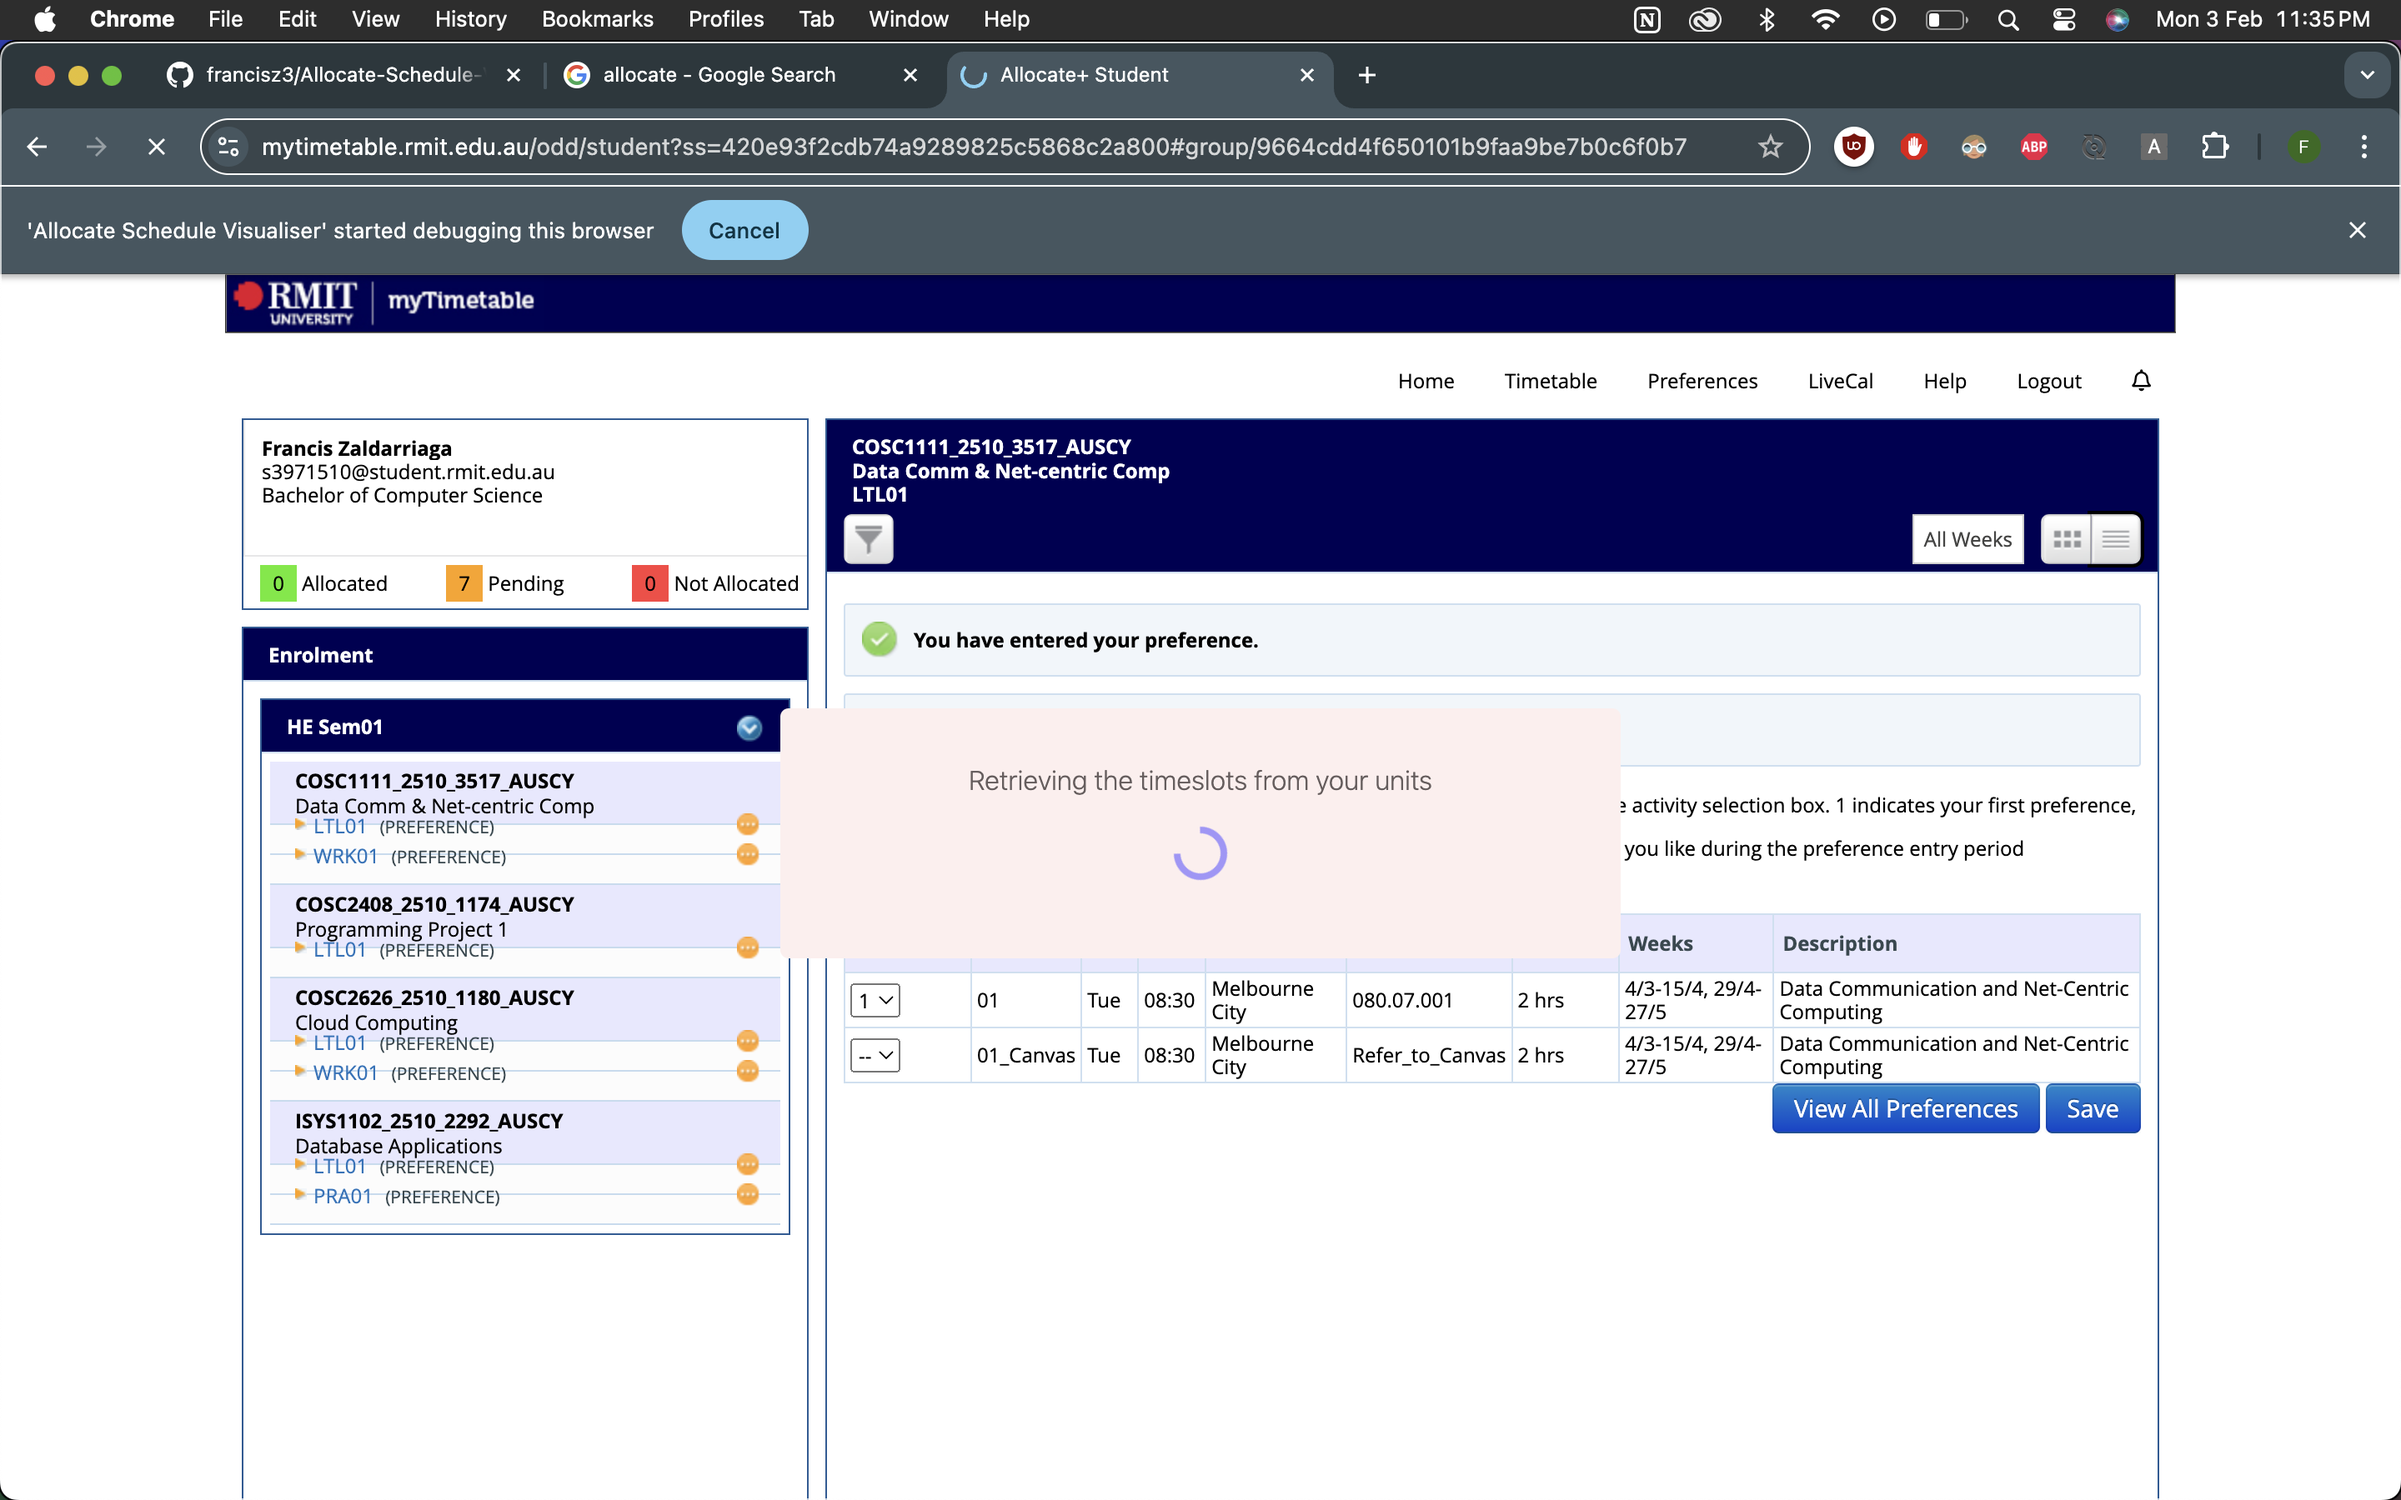
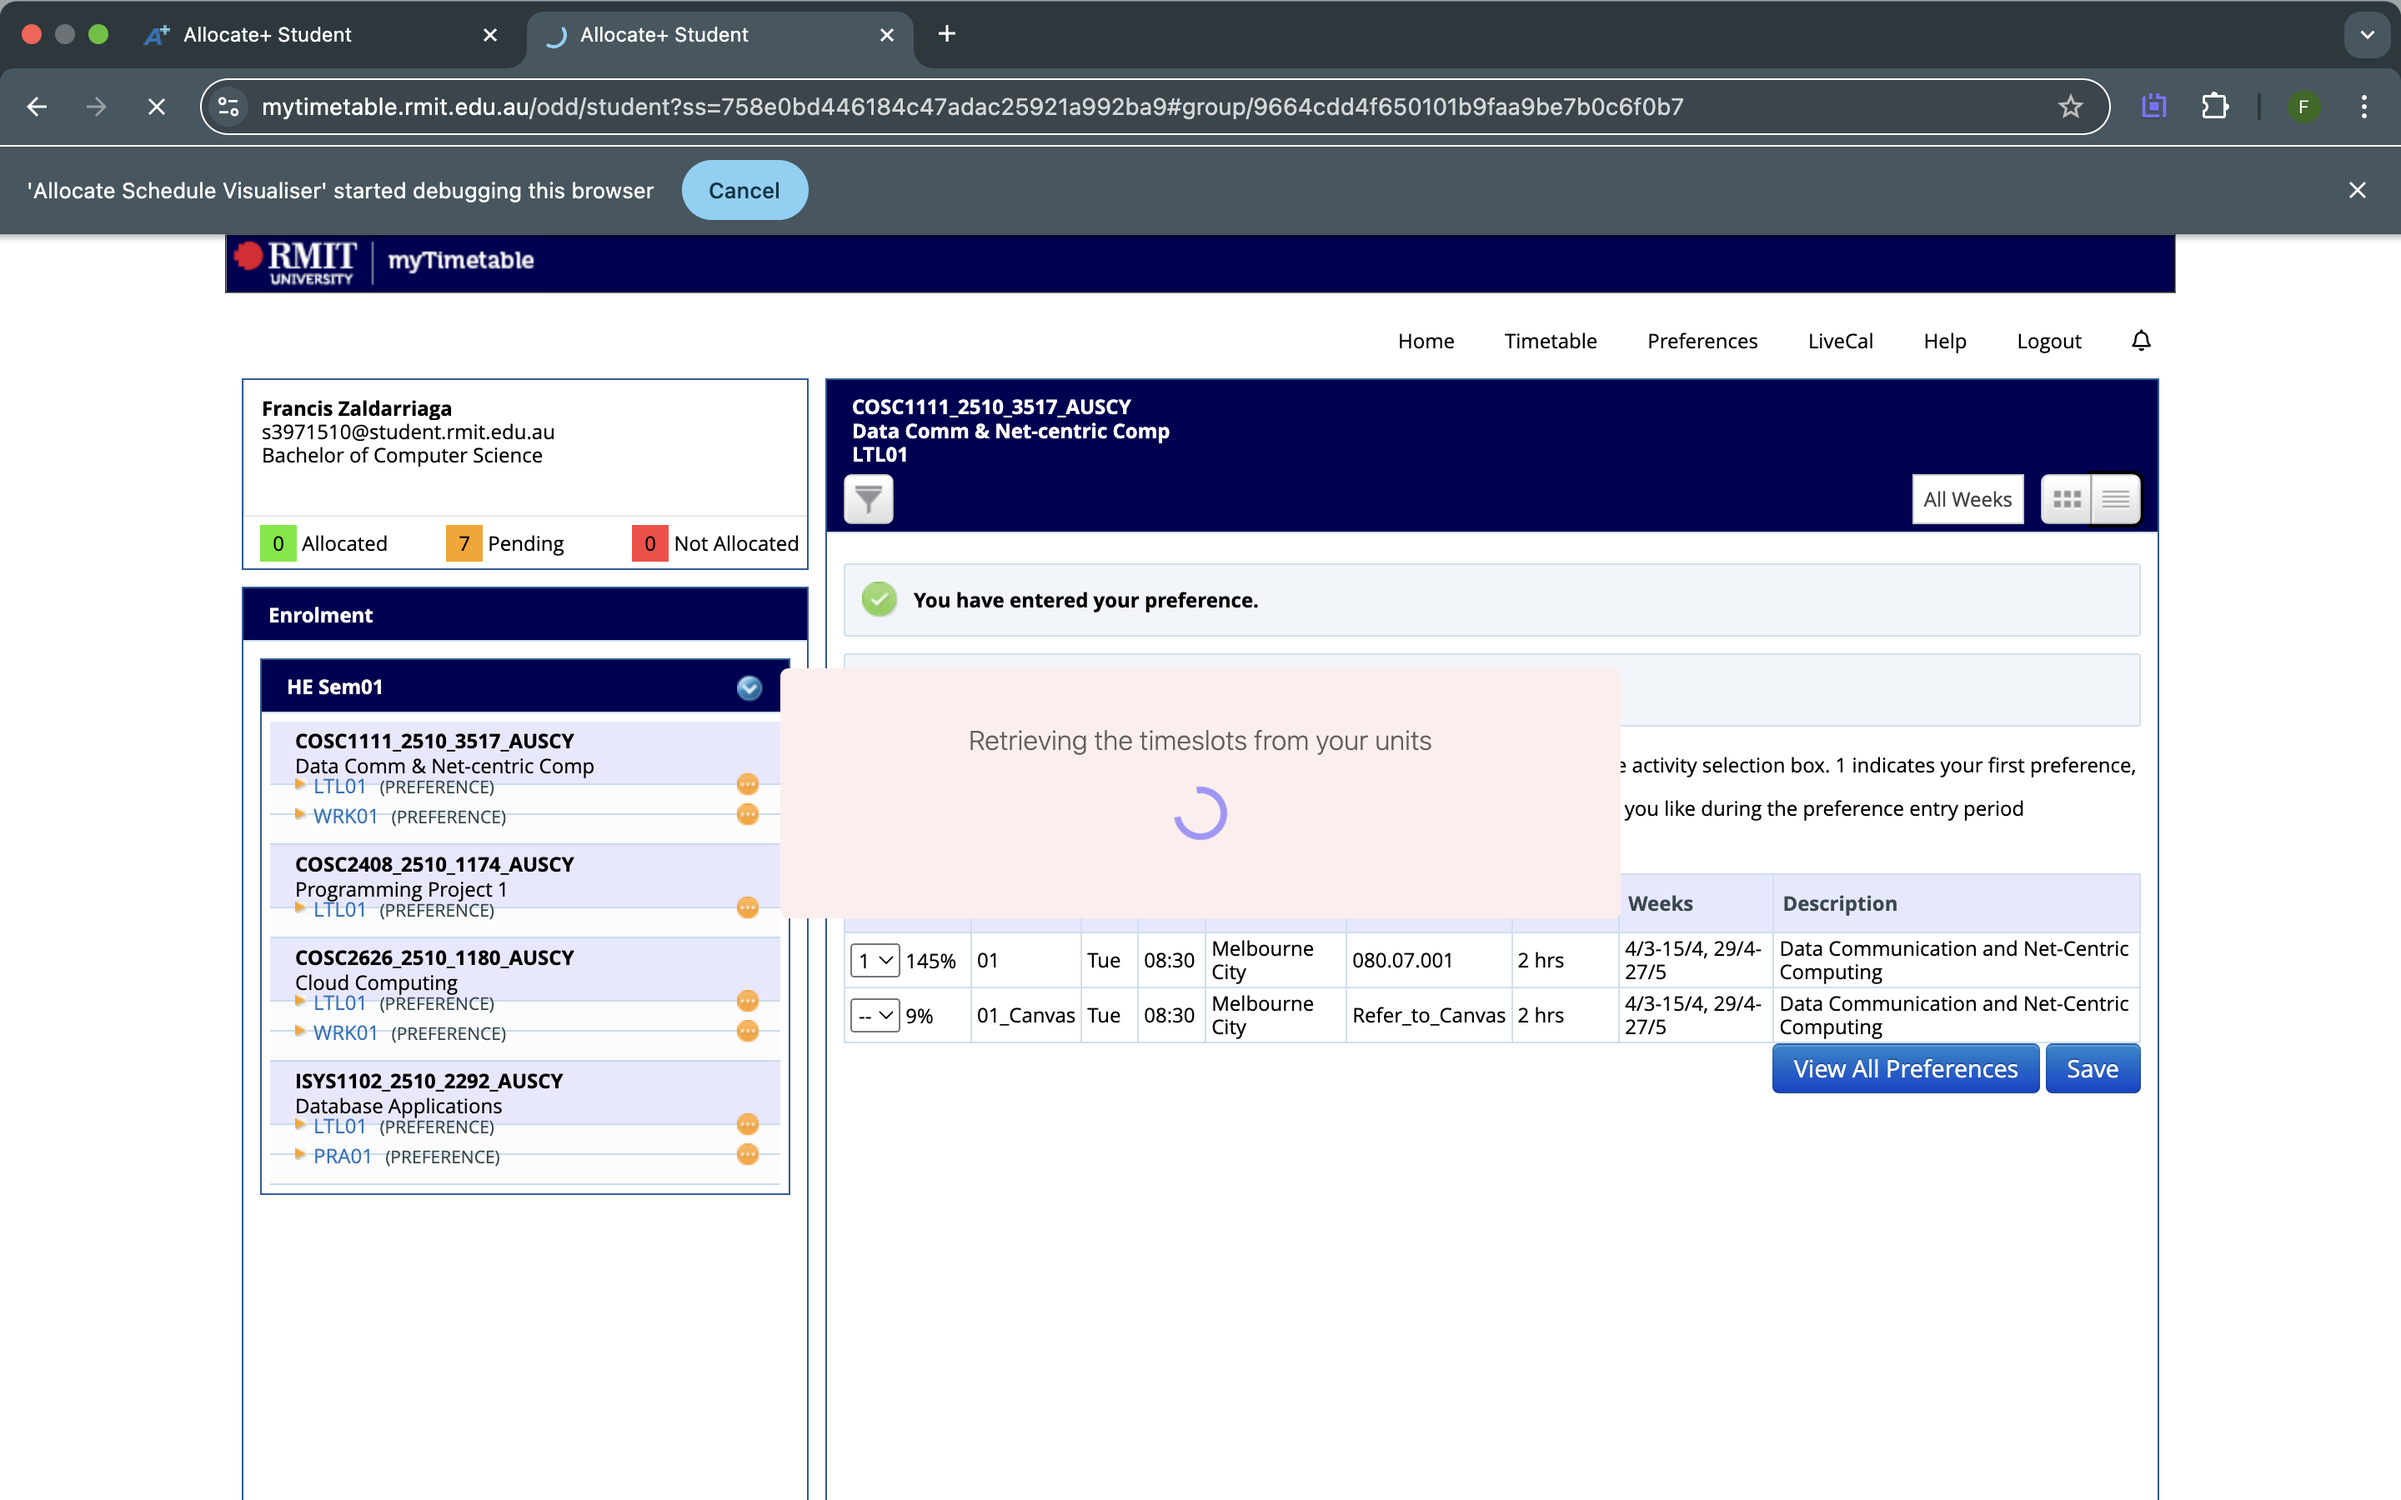
added updated photos to readme, added color coding to each of the units to help differentiate units on schedule

diff --git a/dist/visualiser.js b/dist/visualiser.js
@@ -2,6 +2,7 @@
 let validSchedules = null;
 let timeslotGroups = null;
 let currentSchedules = null;
+let colorCode = {};
 
 const manualContainer = document.querySelector(".manual-container");
 
@@ -14,11 +15,19 @@ chrome.storage.local.get(["validSchedules", "allTimeslots"], (result) => {
 
       currentSchedules = validSchedules;
 
+      // get a number of colors based on the length of timeslotGroups.length / number of units
+      // ensure each of the colors are different and allow visibility for white text
+      createColorCode(timeslotGroups);
+
       // load initial sample schedules
       loadSchedules(validSchedules);
 
-    // load dropdowns for manual edit
+      // load dropdowns for manual edit
       loadUnitDropdowns();
+      // notification for sample schedules
+      const scheduleNotification = document.getElementById("schedule-notification");
+
+      scheduleNotification.textContent = "Here's some schedules to get started!";
     }
 });
 
@@ -113,7 +122,7 @@ function handleParamErrors(timeErrors, noDaysErrors, prefDayErrors, filteredSche
     }
 
     else if(filteredSchedules.length == 0 && timeErrors && noDaysErrors && prefDayErrors){
-        errorMessages.push(`- Your selected time range is too restrictive for the chosen number of days. Try increasing the available days.`)
+        errorMessages.push(`- Your selected time range is too restrictive for the chosen number of days. Try increasing/changing your available days.`)
     }
 
     if(errorMessages.length > 0){
@@ -144,15 +153,10 @@ function loadSchedules(schedules){
     // get a sample of given schedule
     const shortenedSched = schedules.slice(0,5);
 
-    // create button to view more schedules if theres any more
-    
-    if(schedules.length > 5){
-        
+    // Load view more button if the possible schedule length is greater than 5
+    if(schedules.length > 5){       
         viewMoreBtn.removeAttribute("disabled");
-        viewMoreBtn.style.display = "block";
-
-        // listener
-        
+        viewMoreBtn.style.display = "block";        
     }
     else{
         viewMoreBtn.setAttribute("disabled", true);
@@ -216,10 +220,11 @@ function createSchedBtns(schedules){
             currentSchedule.forEach((timeslot) => timeslot.remove());
 
             // put each timeslot of the schedule onto a corresponding cell
-            for(const timeslot of schedule){
+            schedule.forEach((timeslot) => {
                 // get row and column that corresponds to timeslot
-                getCellForTimeSlot(timeslot.time, timeslot.day, timeslot.duration, timeslot.description, timeslot.classType, timeslot.location)
-            }
+                getCellForTimeSlot(timeslot);
+            });
+            
         });
 
         scheduleList.appendChild(scheduleBtn)     
@@ -258,12 +263,12 @@ function getScheduleDetails(schedule){
 
 
 // finds the corresponding cell (row and column) according to time and day of timeslot 
-function getCellForTimeSlot(time, day, duration, description, classType, location){
+function getCellForTimeSlot(timeslot){
     // Day list
     const dayList = ['Mon', 'Tue', 'Wed', 'Thu', 'Fri']
 
     // Get index of day
-    const dayIndex = dayList.indexOf(day) + 1;
+    const dayIndex = dayList.indexOf(timeslot.day) + 1;
 
     // error handling if day is invalid
     if (dayIndex === -1) {
@@ -275,7 +280,7 @@ function getCellForTimeSlot(time, day, duration, description, classType, locatio
     const rows = document.querySelectorAll('.sched-table tbody tr');
 
     // find the row that corresponds to the time
-    const timeIndex = parseInt(time.substring(0,2));
+    const timeIndex = parseInt(timeslot.time.substring(0,2));
     const cell = rows[timeIndex].querySelectorAll('td')[dayIndex];
 
     // clear dropdown if theres a 1-1 conflict
@@ -286,25 +291,28 @@ function getCellForTimeSlot(time, day, duration, description, classType, locatio
     }
 
     //make sure change in timeslot changes the dropdown
-    const reflectDropdown = document.getElementById(`unitDropdown-${classType}-${description.replace(/\s+/g, "")}`);
-    const reflectOption = document.getElementById(`${day}-${time}-${location}`);
+    const reflectDropdown = document.getElementById(`unitDropdown-${timeslot.classType}-${timeslot.description.replace(/\s+/g, "")}`);
+    const reflectOption = document.getElementById(`${timeslot.day}-${timeslot.time}-${timeslot.location}`);
     reflectDropdown.value = reflectOption.value;
 
     
     
     // after finding cell - add div (as timeslot) and corresponding details to it
-    cell.innerHTML = `<div class="timeslot">${classType} ${description} ${time} ${location}</div>`; 
+    cell.innerHTML = `<div class="timeslot">${timeslot.classType} ${timeslot.description} ${timeslot.time} ${timeslot.location}</div>`; 
     
 
     // check if timeslot is ends in :30 :60
     const timeslotDiv = cell.querySelector('.timeslot');
-    const minutesPastHour = parseInt(time.substring(3,5))
+    const minutesPastHour = parseInt(timeslot.time.substring(3,5))
     timeslotDiv.style.top = (( minutesPastHour/60 ) * 100) + "%";
+
+    // make the backgroundColor the 
+    timeslotDiv.style.backgroundColor = colorCode[`${timeslot.classType}${timeslot.description}`];
 
     //multiply height of timeslot by duration
     
-    timeslotDiv.style.height = 100 * parseInt(duration) + "%";
-    timeslotDiv.id = classType + "-" + description;
+    timeslotDiv.style.height = 100 * parseInt(timeslot.duration) + "%";
+    timeslotDiv.id = timeslot.classType + "-" + timeslot.description;
     
 }
 
@@ -332,3 +340,35 @@ function analyzeSchedules(validSchedules) {
         minDaysAtUni,
     };
 }
+
+function createColorCode(timeslotGroups) {
+    colorList = [
+        "#FF0000", // Red
+        "#FF7F00", // Orange
+        "#CFD302", // Yellow
+        "#085E4E", // Green
+        "#2189CA", // Blue
+        "#4B0082", // Indigo
+        "#8B00FF", // Violet
+        "#FF1493", // Deep Pink
+        "#211377", // Deep Blue
+        "#762117", // Deep Red
+    ];
+    
+    timeslotGroups.forEach((unit,index) => {
+        const colorId = unit[0].classType + unit[0].description;
+        
+        // if number of units are greater than the colorList due to overload or such, then just give random colors
+        if(index >= colorList.length){
+            colorCode[colorId] = `#${Math.floor(Math.random() * 16777215).toString(16).padStart(6, '0')}`;
+        }
+        else{
+            colorCode[colorId] = colorList[index];
+        }
+        
+    });
+
+}
+
+// ["#272A4F","#355070","#6d597a","#5b8071","#e69d75","#e56b6f","#854852","#61303b"];
+// ["#bf4949","#4b982d","#472073","#3977bd","#420826","#085e4e","#8c6820","#c53d9a"];

diff --git a/dist/scheduleUI.js b/dist/scheduleUI.js
@@ -12,10 +12,6 @@ window.addEventListener('DOMContentLoaded', () => {
         // Mark that the user has visited
         localStorage.setItem("hasVisited", "true");
     }
-
-    // notification for sample schedules
-    const scheduleNotification = document.getElementById("schedule-notification");
-    scheduleNotification.textContent = "Here's some schedules to get started!";
     
 });
 
@@ -23,18 +19,22 @@ window.addEventListener('DOMContentLoaded', () => {
 // Sets schedule view default scroll position lower
 document.addEventListener("DOMContentLoaded", () => {
     const scrollableDiv = document.querySelector(".tableWrapper");
-    scrollableDiv.scrollTop = 360;  
+    scrollableDiv.scrollTop = 320;  
 });
 
 // loads the dropdowns for units
 function loadUnitDropdowns(){
     // Generate dropdowns according to units
+    
     timeslotGroups.forEach((unitGroup, index) => {
         const unitDropGroup = document.createElement("div");
         const unitDropdown = document.createElement("select");
         unitDropdown.className = "form-select";
         unitDropdown.id = `unitDropdown-${unitGroup[0].classType}-${unitGroup[0].description.replace(/\s+/g, "")}`;
         const unitDropdownLabel = document.createElement("label");
+        unitDropdownLabel.style.borderLeft = `3px solid ${colorCode[`${unitGroup[0].classType}${unitGroup[0].description}`]}`;
+
+        
 
         //create placeholder option
         const placeholderOption = document.createElement("option");
@@ -65,7 +65,6 @@ function loadUnitDropdowns(){
 
         unitDropdown.addEventListener("change", () => {
             const timeslotSelection = JSON.parse(unitDropdown.value);
-
             // clear existing timeslot from schedule view if present
             const existingTimeslot = document.getElementById(timeslotSelection.classType + "-" + timeslotSelection.description);
             if(existingTimeslot){
@@ -74,7 +73,7 @@ function loadUnitDropdowns(){
             }
             
             // add timeslot to schedule view
-            getCellForTimeSlot(timeslotSelection.time, timeslotSelection.day, timeslotSelection.duration, timeslotSelection.description, timeslotSelection.classType, timeslotSelection.location );
+            getCellForTimeSlot(timeslotSelection);
 
             
         });

diff --git a/dist/css/visualiser.css b/dist/css/visualiser.css
@@ -81,6 +81,7 @@
 #filterBtn{
     width:100%;
     background-color: #7A71FF !important;
+    border-color: #7A71FF !important;
     font-weight: lighter;
     font-size: 0.85rem;
 }
@@ -100,6 +101,7 @@
 }
 #vm-btn {
     background-color: #7A71FF !important;
+    border-color: #7A71FF !important;;
     font-weight: lighter;
     font-size: 0.85rem;
 }
@@ -138,7 +140,7 @@ th{
 .sched-table > tbody > tr > td {
     vertical-align: top;
     position: relative;
-    height: 3rem;
+    height: 2.5rem;
     align-items: start;
     border: 0.8px #D9D9D9 solid;
     align-content: end;
@@ -160,7 +162,7 @@ th{
 .timeslot {
     color: white;
     background-color: #7A71FF;
-    opacity: 85%;
+    opacity: 80%;
     width: 100%;
     height: 100%;
     position: absolute;   
@@ -175,7 +177,7 @@ th{
     padding: 1rem;
     margin: 1rem 0 1rem 0;
     border-radius: .5rem;
-    height: 25vh;
+    height: 26vh;
 }
 
 .unit-drop-grp{
@@ -186,10 +188,12 @@ th{
 
 .unit-drop-grp > label {
     font-size: 0.8rem;
-    height: 2rem;
+    height: 2.2rem;
     align-content: end;
     margin: 0 0 0.7rem .4rem;
     color:#675D5D;
+    padding-left: 1rem;
+    align-content: center;
 }
 
 .unit-drop-grp > select {

diff --git a/README.md b/README.md
@@ -35,16 +35,19 @@ Allocate Schedule Visualizer is a Chrome extension that helps you easily visuali
 
 4. The extension will retrieve all timeslot data from your units and open up a new tab.
    ![ASV Extension retrieving timeslots](retrieval.png)
-
-5. Use the filters on the sidebar according to your preferences and select the one that best fits your needs.
    ![Visualiser/Schedule page for ASV](visualiser.png)
+5. Use the filters on the sidebar according to your preferences and select the one that best fits your needs.
+   ![Filtering through schedules](filter.png)
 6. If you want to put in your timeslots manually, there are dropdowns below to see how each unit fits in your schedule.
+   ![Manual allocate](manual.png)
 
 ## Important Notes
 
-- This chrome extension is exclusively for university that use allocate and follow specific formatting on their timetable websites.
+- This chrome extension is exclusively for universities that use allocate and follow specific formatting on their timetable websites.
 
-- This includes RMIT Unviersity & Monash Univerisity
+- The current version is currently only available for RMIT
+
+- This extension uses Puppeteer, and its ability to scrape content and therefore collect and generate data will be highly dependant on the formatting of your allocate units. For instance, the extension will look for specific html elements that contain your unit elements, and if it's unable to find it due to any formatting irregularities, the extension will be unsuccesful in generating your schedules.
 
 ## Contact
 
